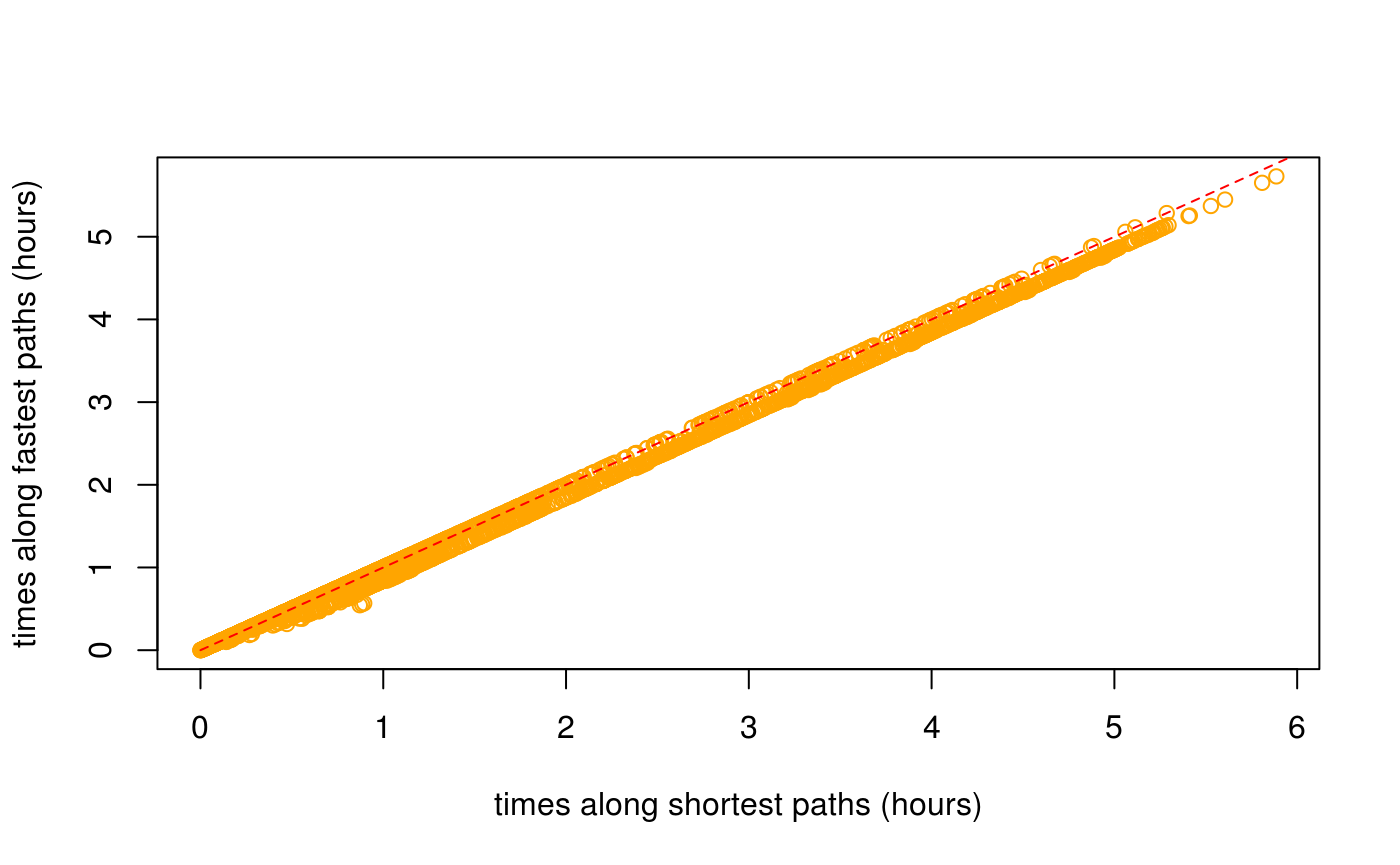
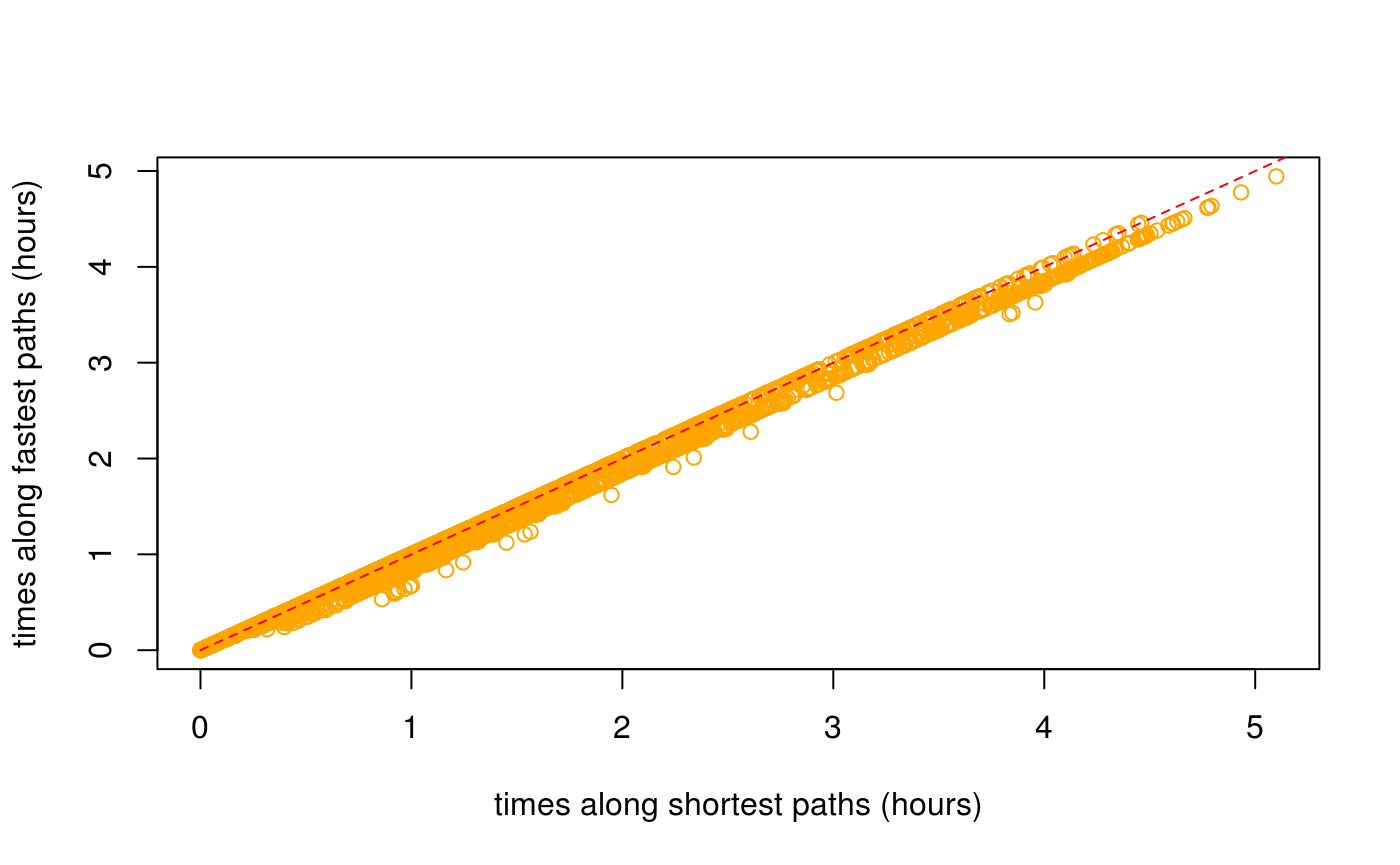
Built site for dodgr: 0.1.3.3@9c61654

diff --git a/articles/dodgr.html b/articles/dodgr.html
@@ -343,7 +343,7 @@ Figure 2: A <strong>dual</strong>-weighted, directed graph in which the weights 
 <p>The <code>dodgr</code> packages includes a function to select a random connected portion of graph including a specified number of vertices. This function is used in the <code><a href="../reference/compare_heaps.html">compare_heaps()</a></code> function described below, but is also useful for general statistical analyses of large graphs which may otherwise take too long to compute.</p>
 <div class="sourceCode" id="cb59"><pre class="sourceCode r"><code class="sourceCode r"><a class="sourceLine" id="cb59-1" data-line-number="1">graph_sub &lt;-<span class="st"> </span><span class="kw"><a href="../reference/dodgr_sample.html">dodgr_sample</a></span> (graph, <span class="dt">nverts =</span> <span class="dv">100</span>)</a>
 <a class="sourceLine" id="cb59-2" data-line-number="2"><span class="kw"><a href="https://www.rdocumentation.org/packages/base/topics/nrow">nrow</a></span> (graph_sub)</a></code></pre></div>
-<pre><code>## [1] 203</code></pre>
+<pre><code>## [1] 201</code></pre>
 <p>The random sample has around twice as many edges as vertices, in accordance with the statistics calculated above.</p>
 <div class="sourceCode" id="cb61"><pre class="sourceCode r"><code class="sourceCode r"><a class="sourceLine" id="cb61-1" data-line-number="1"><span class="kw"><a href="https://www.rdocumentation.org/packages/base/topics/nrow">nrow</a></span> (<span class="kw"><a href="../reference/dodgr_vertices.html">dodgr_vertices</a></span> (graph_sub))</a></code></pre></div>
 <pre><code>## [1] 100</code></pre>
@@ -366,7 +366,7 @@ Figure 2: A <strong>dual</strong>-weighted, directed graph in which the weights 
 <div class="sourceCode" id="cb64"><pre class="sourceCode r"><code class="sourceCode r"><a class="sourceLine" id="cb64-1" data-line-number="1">d &lt;-<span class="st"> </span><span class="kw"><a href="../reference/dodgr_dists.html">dodgr_dists</a></span> (graph, <span class="dt">from =</span> xy)</a>
 <a class="sourceLine" id="cb64-2" data-line-number="2"><span class="kw"><a href="https://www.rdocumentation.org/packages/base/topics/dim">dim</a></span> (d); <span class="kw"><a href="https://www.rdocumentation.org/packages/base/topics/range">range</a></span> (d, <span class="dt">na.rm =</span> <span class="ot">TRUE</span>)</a></code></pre></div>
 <pre><code>## [1]  100 2861</code></pre>
-<pre><code>## [1]     0.00 28624.11</code></pre>
+<pre><code>## [1]     0 27754</code></pre>
 <p>If the <code>to</code> argument is also specified, the matrix returned will have rows matching <code>from</code> and columns matching <code>to</code></p>
 <div class="sourceCode" id="cb67"><pre class="sourceCode r"><code class="sourceCode r"><a class="sourceLine" id="cb67-1" data-line-number="1">d &lt;-<span class="st"> </span><span class="kw"><a href="../reference/dodgr_dists.html">dodgr_dists</a></span> (graph, <span class="dt">from =</span> xy, <span class="dt">to =</span> xy [<span class="dv">1</span><span class="op">:</span><span class="dv">10</span>, ])</a>
 <a class="sourceLine" id="cb67-2" data-line-number="2"><span class="kw"><a href="https://www.rdocumentation.org/packages/base/topics/dim">dim</a></span> (d)</a></code></pre></div>
@@ -420,31 +420,31 @@ Figure 2: A <strong>dual</strong>-weighted, directed graph in which the weights 
 <p>The comparisons are actually made on a randomly selected sub-component of the graph containing a defined number of vertices (with a default of 1,000, or the entire graph if it contains fewer than 1,000 vertices).</p>
 <div class="sourceCode" id="cb77"><pre class="sourceCode r"><code class="sourceCode r"><a class="sourceLine" id="cb77-1" data-line-number="1"><span class="kw"><a href="../reference/compare_heaps.html">compare_heaps</a></span> (graph, <span class="dt">nverts =</span> <span class="dv">100</span>, <span class="dt">replications =</span> <span class="dv">1</span>)</a></code></pre></div>
 <pre><code>##                                                                                   test
-## 6       d &lt;- dodgr_dists(graph_contracted, from = from_id, to = to_id, heap = "BHeap")
-## 9  d &lt;- dodgr_dists(graph_contracted, from = from_id, to = to_id, heap = "TriHeapExt")
-## 11        d &lt;- dodgr_dists(graph_contracted, from = from_id, to = to_id, heap = "set")
 ## 12                  d &lt;- igraph::distances(igr, v = from_id, to = to_id, mode = "out")
-## 1                  d &lt;- dodgr_dists(graph, from = from_id, to = to_id, heap = "BHeap")
-## 2                  d &lt;- dodgr_dists(graph, from = from_id, to = to_id, heap = "FHeap")
-## 4             d &lt;- dodgr_dists(graph, from = from_id, to = to_id, heap = "TriHeapExt")
-## 5                 d &lt;- dodgr_dists(graph, from = from_id, to = to_id, heap = "Heap23")
+## 6       d &lt;- dodgr_dists(graph_contracted, from = from_id, to = to_id, heap = "BHeap")
 ## 7       d &lt;- dodgr_dists(graph_contracted, from = from_id, to = to_id, heap = "FHeap")
 ## 8     d &lt;- dodgr_dists(graph_contracted, from = from_id, to = to_id, heap = "TriHeap")
 ## 10     d &lt;- dodgr_dists(graph_contracted, from = from_id, to = to_id, heap = "Heap23")
+## 11        d &lt;- dodgr_dists(graph_contracted, from = from_id, to = to_id, heap = "set")
+## 1                  d &lt;- dodgr_dists(graph, from = from_id, to = to_id, heap = "BHeap")
+## 2                  d &lt;- dodgr_dists(graph, from = from_id, to = to_id, heap = "FHeap")
 ## 3                d &lt;- dodgr_dists(graph, from = from_id, to = to_id, heap = "TriHeap")
+## 4             d &lt;- dodgr_dists(graph, from = from_id, to = to_id, heap = "TriHeapExt")
+## 5                 d &lt;- dodgr_dists(graph, from = from_id, to = to_id, heap = "Heap23")
+## 9  d &lt;- dodgr_dists(graph_contracted, from = from_id, to = to_id, heap = "TriHeapExt")
 ##    replications elapsed relative user.self sys.self user.child sys.child
-## 6             1   0.002      1.0     0.004    0.000          0         0
-## 9             1   0.002      1.0     0.000    0.000          0         0
-## 11            1   0.002      1.0     0.000    0.000          0         0
-## 12            1   0.002      1.0     0.000    0.000          0         0
-## 1             1   0.003      1.5     0.004    0.000          0         0
-## 2             1   0.003      1.5     0.004    0.000          0         0
-## 4             1   0.003      1.5     0.004    0.000          0         0
-## 5             1   0.003      1.5     0.004    0.000          0         0
-## 7             1   0.003      1.5     0.004    0.000          0         0
-## 8             1   0.003      1.5     0.000    0.000          0         0
-## 10            1   0.003      1.5     0.004    0.000          0         0
-## 3             1   0.004      2.0     0.000    0.004          0         0</code></pre>
+## 12            1   0.001        1     0.004        0          0         0
+## 6             1   0.002        2     0.004        0          0         0
+## 7             1   0.002        2     0.004        0          0         0
+## 8             1   0.002        2     0.004        0          0         0
+## 10            1   0.002        2     0.004        0          0         0
+## 11            1   0.002        2     0.000        0          0         0
+## 1             1   0.003        3     0.004        0          0         0
+## 2             1   0.003        3     0.000        0          0         0
+## 3             1   0.003        3     0.004        0          0         0
+## 4             1   0.003        3     0.004        0          0         0
+## 5             1   0.003        3     0.000        0          0         0
+## 9             1   0.003        3     0.004        0          0         0</code></pre>
 <p>The key column of that <code>data.frame</code> is <code>relative</code>, which quantifies the relative performance of each test in relation to the best which is given a score of 1. <code>dodgr</code> using the default <code>heap = "BHeap"</code>, which is a binary heap priority queue, performs faster than <code>igraph</code> <span class="citation">(Csardi and Nepusz 2006)</span> for these graphs. Different kind of graphs will perform differently with different priority queue structures, and this function enables users to empirically discern the optimal heap for their kind of graph.</p>
 <p>Note, however, that this is not an entirely fair comparison, because <code>dodgr</code> calculates dual-weighted distances, whereas <code>igraph</code>—and indeed all other <strong>R</strong> packages—only directly calculate distances based on a single set of weights. Implementing dual-weighted routing in these cases requires explicitly re-tracing all paths and summing the second set of weights along each path. A time comparison in that case would be very strongly in favour of <code>dodgr</code>. Moreover, <code>dodgr</code> can convert graphs to contracted form through removing redundant vertices, as detailed in the following section. Doing so greatly improves performance with respect to <code>igraph</code>.</p>
 <p>For those wishing to do explicit comparisons themselves, the following code generates the <code>igraph</code> equivalent of <code><a href="../reference/dodgr_dists.html">dodgr_dists()</a></code>, although of course for single-weighted graphs only:</p>
@@ -481,10 +481,10 @@ Figure 3: <strong>(A)</strong> Vertex#2 is redundant for routing calculations fr
 <a class="sourceLine" id="cb85-5" data-line-number="5">                       d2 &lt;-<span class="st"> </span><span class="kw"><a href="../reference/dodgr_dists.html">dodgr_dists</a></span> (graph, <span class="dt">from =</span> from, <span class="dt">to =</span> to),</a>
 <a class="sourceLine" id="cb85-6" data-line-number="6">                       <span class="dt">replications =</span> <span class="dv">2</span>)</a></code></pre></div>
 <pre><code>##                                             test replications elapsed
-## 2 d2 &lt;- dodgr_dists(graph, from = from, to = to)            2   0.049
+## 2 d2 &lt;- dodgr_dists(graph, from = from, to = to)            2   0.048
 ## 1   d2 &lt;- dodgr_dists(grc, from = from, to = to)            2   0.010
 ##   relative user.self sys.self user.child sys.child
-## 2      4.9     0.072        0          0         0
+## 2      4.8     0.068        0          0         0
 ## 1      1.0     0.012        0          0         0</code></pre>
 <p>And contracting the graph has a similar effect of speeding up pairwise routing between these 100 points. All routing algorithms scale non-linearly with size, and relative improvements in efficiency will be even greater for larger graphs.</p>
 <div id="routing-on-contracted-graphs" class="section level2">
@@ -497,11 +497,11 @@ Figure 3: <strong>(A)</strong> Vertex#2 is redundant for routing calculations fr
 <pre><code>## [1] 688</code></pre>
 <div class="sourceCode" id="cb89"><pre class="sourceCode r"><code class="sourceCode r"><a class="sourceLine" id="cb89-1" data-line-number="1">verts &lt;-<span class="st"> </span><span class="kw"><a href="https://www.rdocumentation.org/packages/base/topics/sample">sample</a></span> (<span class="kw"><a href="../reference/dodgr_vertices.html">dodgr_vertices</a></span> (graph)<span class="op">$</span>id, <span class="dt">size =</span> <span class="dv">100</span>)</a>
 <a class="sourceLine" id="cb89-2" data-line-number="2"><span class="kw"><a href="https://www.rdocumentation.org/packages/utils/topics/head">head</a></span> (verts) <span class="co"># a character vector</span></a></code></pre></div>
-<pre><code>## [1] "339059757"  "1427080694" "2195425044" "1398747982" "2398957753"
-## [6] "2195425056"</code></pre>
+<pre><code>## [1] "2195424968" "2627465883" "2398957884" "2398957729" "1668645530"
+## [6] "2588155732"</code></pre>
 <div class="sourceCode" id="cb91"><pre class="sourceCode r"><code class="sourceCode r"><a class="sourceLine" id="cb91-1" data-line-number="1">grc &lt;-<span class="st"> </span><span class="kw"><a href="../reference/dodgr_contract_graph.html">dodgr_contract_graph</a></span> (graph, verts)<span class="op">$</span>graph</a>
 <a class="sourceLine" id="cb91-2" data-line-number="2"><span class="kw"><a href="https://www.rdocumentation.org/packages/base/topics/nrow">nrow</a></span> (grc)</a></code></pre></div>
-<pre><code>## [1] 868</code></pre>
+<pre><code>## [1] 852</code></pre>
 <p>Retaining the nominated vertices yields a graph with considerably more edges than the fully contracted graph excluding these vertices. The <code><a href="../reference/dodgr_dists.html">dodgr_dists()</a></code> function can be applied to the latter graph to obtain accurate distances precisely routed between these points, yet using the speed advantages of graph contraction.</p>
 </div>
 </div>
@@ -542,25 +542,87 @@ Figure 3: <strong>(A)</strong> Vertex#2 is redundant for routing calculations fr
 <pre><code>## [1] 10</code></pre>
 <p>The result (<code>dp</code>) is a list of 10 items, each of which contains 5 vectors. An example is,</p>
 <div class="sourceCode" id="cb98"><pre class="sourceCode r"><code class="sourceCode r"><a class="sourceLine" id="cb98-1" data-line-number="1">dp [[<span class="dv">1</span>]] [[<span class="dv">1</span>]]</a></code></pre></div>
-<pre><code>##  [1] "2195425054" "2195425053" "2195425041" "2195425033" "2627488725"
-##  [6] "2195425019" "2195425016" "2195425012" "2195425003" "2195424993"
-## [11] "2195424989" "2195424988" "2195424983" "2195424981" "2195424980"
-## [16] "2195424974" "2195424973" "2195424970" "2195424968" "2195424963"
-## [21] "2195424961" "2195424954" "2195424953" "2195424945" "2195424930"
-## [26] "2195424929" "2195424932" "2195424931" "2195424933" "2195424936"
-## [31] "2195424942" "2195424948" "2195424955" "2195424956" "2195424951"
-## [36] "2195424950" "2195424944" "2195424943" "2195424940"</code></pre>
+<pre><code>##   [1] "677638822"  "677638823"  "1691495723" "1691495720" "1691495717"
+##   [6] "1161117349" "1691495698" "245631502"  "1691495696" "1161117543"
+##  [11] "1691495693" "1691495680" "1691495677" "1161117452" "1691495672"
+##  [16] "1161117302" "1691495665" "1691495937" "1161117663" "1691496251"
+##  [21] "1691496243" "1161117704" "1691496247" "1691496237" "1161117404"
+##  [26] "1691496236" "1691496204" "1161117288" "1691495910" "1691495985"
+##  [31] "677638817"  "1161117652" "1161117586" "1691495982" "1161117526"
+##  [36] "1691495952" "1691495943" "1161117392" "1691495939" "1161117756"
+##  [41] "1691495934" "1161117440" "1376769146" "1161117501" "1691495929"
+##  [46] "1161117383" "1691496079" "1161117679" "677638820"  "1691496070"
+##  [51] "1161117278" "1691496072" "1691496075" "1128374463" "1161117327"
+##  [56] "2398958044" "2398958043" "2398958041" "2398958040" "677638818" 
+##  [61] "1161117434" "2398958010" "2398958005" "1128374490" "2398957968"
+##  [66] "1161117636" "2398957939" "1376768724" "677638819"  "1376768355"
+##  [71] "1128374455" "1376768842" "2398957896" "2398957895" "1128374434"
+##  [76] "1376768821" "677638770"  "1376768479" "1376769040" "2398957837"
+##  [81] "2398957826" "1128374394" "2398957816" "1376768691" "977461235" 
+##  [86] "1128374418" "1376768409" "1376768986" "245631194"  "1376768627"
+##  [91] "1128374362" "676875279"  "1357430213" "1161117548" "1128374360"
+##  [96] "1376769220" "1376768749" "1357430014" "1376768380" "676875276" 
+## [101] "1376768957" "1357430113" "1376768597" "1376768325" "1161117723"
+## [106] "1376768899" "1161117735" "1376768537" "676875308"  "1376769132"
+## [111] "1128374447" "1376768650" "1376768293" "676875274"  "1376768867"
+## [116] "1161117304" "1376768504" "1128374467" "1128374373" "1128374412"
+## [121] "1376769190" "1128374442" "676875269"  "245631169"  "1376768805"
+## [126] "2398957722" "313796425"  "2398957720" "1376769010" "2398957713"
+## [131] "1376768565" "2398957701" "2398957696" "1128374495" "313796426" 
+## [136] "1128374399" "313796427"  "313796428"  "2398957603" "313796429" 
+## [141] "1427594112" "1376769158" "313796430"  "313796431"  "2398957567"
+## [146] "2398957563" "3338186986" "313796432"  "2398957555" "2398957554"
+## [151] "1376768773" "313796433"  "2419196948" "2398957539" "676875267" 
+## [156] "2398957521" "2398957526" "2398957532" "2398957537" "676635860" 
+## [161] "2398957542" "2398957543" "2398957544" "2398957546" "338905245" 
+## [166] "2398957549" "2398957557" "2398957561" "338905227"  "2398957564"
+## [171] "338905221"  "2398957568" "2398957570" "2398957571" "1427594104"
+## [176] "2398957576" "338905220"  "2398957584" "1376769086" "1376768510"
+## [181] "2398957588" "2398957589" "338905219"  "1376768779" "1376769164"
+## [186] "338905128"  "1427115955" "339574628"  "2398957619" "339574629" 
+## [191] "339574630"  "2398957639" "2398957654" "1148814809" "2717241324"
+## [196] "339574631"  "2398957686" "3818714155" "339574819"  "339574820" 
+## [201] "3818714154" "1668645470" "1668645472" "339574823"  "339574824" 
+## [206] "339574825"  "339574826"  "339574827"  "1560930408" "1560930420"
+## [211] "339574828"  "339574829"  "1376768626" "1376768985" "1376768324"
+## [216] "1376768690" "1376769039" "1376768478" "1560930407" "1376768586"
+## [221] "1376768946" "1376768369" "1376768738" "2717241312" "2717241323"
+## [226] "2717241306" "2717241321" "2717241309" "2717241332" "2717241339"
+## [231] "2717241317" "2717241331" "2717241300" "2717241302" "1376768559"
+## [236] "1376768918" "1376769209" "1376768614" "1376768975" "1376768398"
+## [241] "1376768862" "1376768464" "1376768828" "1376769110" "3697937607"
+## [246] "3697937608" "3697937609" "3697937616" "3697937612" "3697937611"
+## [251] "3697937613" "3697937614" "3697937615" "3697937610" "3697937571"
+## [256] "3697937573" "3697937588" "3697937601" "3697937589" "3697937585"
+## [261] "3697937604" "3697937579" "3697937572" "3697937603" "3697937598"
+## [266] "3697937602" "3697937595" "3697937586" "3697937584" "3697937606"
+## [271] "3697937596" "3697937583" "3697937597" "3697937574" "3697937582"
+## [276] "3697937578" "3697937575" "3697937605" "3697937599" "3697937591"
+## [281] "4337842057" "4337842060" "4337842061" "4337842067" "4337842073"
+## [286] "4337842068" "4337842064" "4337842069" "4337842075" "4337842079"
+## [291] "4337842189" "4337842192" "3697937587" "4337842203" "4337842205"
+## [296] "4337842204" "4337842200" "4337842201" "4337842086" "4337842082"
+## [301] "4337842081" "4337842084" "4337842190" "4337842197" "4337842196"
+## [306] "4337842078" "4337842071" "4337842065" "4337842053" "4337842072"
+## [311] "4337842070" "4337842080" "4337842076" "4337842195" "4337842198"
+## [316] "4337842199" "4337842083" "4337842063" "4337842058" "4337842055"
+## [321] "4337842056" "4337842077" "4337842087" "4337842194" "4337842193"
+## [326] "4337842085" "4337842074" "4337842066" "4337842059" "4337842054"
+## [331] "4337842052" "4337842051" "4337842062" "4337842088" "4337842202"
+## [336] "4337842206" "977472988"  "977473142"  "1148815227" "2627465893"
+## [341] "2627465891" "2627465887" "2627465884" "339932428"  "339932440" 
+## [346] "339932425"  "571423834"  "571423835"</code></pre>
 <p>For spatial graphs, the coordinates of these paths can be obtained by extracting the vertices with <code><a href="../reference/dodgr_vertices.html">dodgr_vertices()</a></code> and matching the vertex IDs:</p>
 <div class="sourceCode" id="cb100"><pre class="sourceCode r"><code class="sourceCode r"><a class="sourceLine" id="cb100-1" data-line-number="1">verts &lt;-<span class="st"> </span><span class="kw"><a href="../reference/dodgr_vertices.html">dodgr_vertices</a></span> (graph)</a>
 <a class="sourceLine" id="cb100-2" data-line-number="2">path1 &lt;-<span class="st"> </span>verts [<span class="kw"><a href="https://www.rdocumentation.org/packages/base/topics/match">match</a></span> (dp [[<span class="dv">1</span>]] [[<span class="dv">1</span>]], verts<span class="op">$</span>id), ]</a>
 <a class="sourceLine" id="cb100-3" data-line-number="3"><span class="kw"><a href="https://www.rdocumentation.org/packages/utils/topics/head">head</a></span> (path1)</a></code></pre></div>
-<pre><code>##              id        x        y component    n
-## 3344 2195425054 76.46106 15.35501         2 1677
-## 3342 2195425053 76.46093 15.35499         2 1676
-## 3340 2195425041 76.46087 15.35481         2 1675
-## 3338 2195425033 76.46118 15.35412         2 1674
-## 3336 2627488725 76.46131 15.35385         2 1673
-## 3334 2195425019 76.46148 15.35369         2 1672</code></pre>
+<pre><code>##              id        x        y component   n
+## 1006  677638822 76.54509 15.37046         1 514
+## 1004  677638823 76.54466 15.36981         1 513
+## 1002 1691495723 76.54421 15.36935         1 512
+## 1000 1691495720 76.54383 15.36893         1 511
+## 998  1691495717 76.54265 15.36749         1 510
+## 996  1161117349 76.54241 15.36723         1 509</code></pre>
 <p>Paths calculated on contracted graphs will of course have fewer vertices than those calculated on full graphs.</p>
 </div>
 <div id="aggregated-flows" class="section level1">
@@ -604,7 +666,7 @@ Figure 3: <strong>(A)</strong> Vertex#2 is redundant for routing calculations fr
 <p>Most flows are zero because they have only been calculated between very few points in the graph.</p>
 <div class="sourceCode" id="cb105"><pre class="sourceCode r"><code class="sourceCode r"><a class="sourceLine" id="cb105-1" data-line-number="1"><span class="kw"><a href="https://www.rdocumentation.org/packages/base/topics/summary">summary</a></span> (graph_f<span class="op">$</span>flow)</a></code></pre></div>
 <pre><code>##    Min. 1st Qu.  Median    Mean 3rd Qu.    Max. 
-##   0.000   0.000   0.000   3.604   0.000  59.217</code></pre>
+##   0.000   0.000   0.000   7.160   4.809  85.095</code></pre>
 </div>
 <div id="flow-dispersal" class="section level2">
 <h2 class="hasAnchor">
@@ -614,7 +676,7 @@ Figure 3: <strong>(A)</strong> Vertex#2 is redundant for routing calculations fr
 <a class="sourceLine" id="cb107-2" data-line-number="2">graph_f &lt;-<span class="st"> </span><span class="kw"><a href="../reference/dodgr_flows_disperse.html">dodgr_flows_disperse</a></span> (graph, <span class="dt">from =</span> from, <span class="dt">dens =</span> dens)</a>
 <a class="sourceLine" id="cb107-3" data-line-number="3"><span class="kw"><a href="https://www.rdocumentation.org/packages/base/topics/summary">summary</a></span> (graph_f<span class="op">$</span>flow)</a></code></pre></div>
 <pre><code>##      Min.   1st Qu.    Median      Mean   3rd Qu.      Max. 
-## 0.000e+00 0.000e+00 0.000e+00 2.237e-05 0.000e+00 7.490e-02</code></pre>
+## 0.000e+00 0.000e+00 0.000e+00 3.961e-06 0.000e+00 1.312e-02</code></pre>
 </div>
 <div id="merging-directed-flows" class="section level2">
 <h2 class="hasAnchor">
@@ -624,7 +686,7 @@ Figure 3: <strong>(A)</strong> Vertex#2 is redundant for routing calculations fr
 <p>Resultant graphs produced by <code><a href="../reference/merge_directed_flows.html">merge_directed_flows()</a></code> only include those edges having non-zero flows, and so:</p>
 <div class="sourceCode" id="cb110"><pre class="sourceCode r"><code class="sourceCode r"><a class="sourceLine" id="cb110-1" data-line-number="1"><span class="kw"><a href="https://www.rdocumentation.org/packages/base/topics/nrow">nrow</a></span> (graph_f); <span class="kw"><a href="https://www.rdocumentation.org/packages/base/topics/nrow">nrow</a></span> (graph_undir) <span class="co"># the latter is much smaller</span></a></code></pre></div>
 <pre><code>## [1] 5845</code></pre>
-<pre><code>## [1] 1710</code></pre>
+<pre><code>## [1] 1428</code></pre>
 <p>The resultant graph can readily be merged with the original graph to regain the original data on vertex coordinates through</p>
 <div class="sourceCode" id="cb113"><pre class="sourceCode r"><code class="sourceCode r"><a class="sourceLine" id="cb113-1" data-line-number="1">graph &lt;-<span class="st"> </span>graph [graph_undir<span class="op">$</span>edge_id, ]</a>
 <a class="sourceLine" id="cb113-2" data-line-number="2">graph<span class="op">$</span>flow &lt;-<span class="st"> </span>graph_undir<span class="op">$</span>flow</a></code></pre></div>

diff --git a/articles/times.html b/articles/times.html
@@ -233,11 +233,11 @@ Figure 1: Graph modification to account for turn angles, which introduces the ad
 <p><img src="times_files/figure-html/shortest-vs-fastest-1.png" width="700"></p>
 <p>The average distance between the two (in metres) is:</p>
 <div class="sourceCode" id="cb11"><pre class="sourceCode r"><code class="sourceCode r"><a class="sourceLine" id="cb11-1" data-line-number="1"><span class="kw"><a href="https://www.rdocumentation.org/packages/base/topics/mean">mean</a></span> (<span class="kw"><a href="https://www.rdocumentation.org/packages/base/topics/MathFun">abs</a></span> (d_time <span class="op">-</span><span class="st"> </span>d_dist), <span class="dt">na.rm =</span> <span class="ot">TRUE</span>)</a></code></pre></div>
-<pre><code>## [1] 37.45463</code></pre>
+<pre><code>## [1] 28.98991</code></pre>
 <p>The plot reveals that shortest distances are indeed somewhat shorter than distances along fastest paths, but also that some fastest paths are actually shorter than shortest paths:</p>
 <div class="sourceCode" id="cb13"><pre class="sourceCode r"><code class="sourceCode r"><a class="sourceLine" id="cb13-1" data-line-number="1">index &lt;-<span class="st"> </span><span class="kw"><a href="https://www.rdocumentation.org/packages/base/topics/which">which</a></span> (<span class="op">!</span><span class="kw"><a href="https://www.rdocumentation.org/packages/base/topics/NA">is.na</a></span> (d_time) <span class="op">&amp;</span><span class="st"> </span><span class="op">!</span><span class="kw"><a href="https://www.rdocumentation.org/packages/base/topics/NA">is.na</a></span> (d_dist))</a>
 <a class="sourceLine" id="cb13-2" data-line-number="2"><span class="kw"><a href="https://www.rdocumentation.org/packages/base/topics/length">length</a></span> (<span class="kw"><a href="https://www.rdocumentation.org/packages/base/topics/which">which</a></span> (d_time [index] <span class="op">&lt;</span><span class="st"> </span>d_dist [index])) <span class="op">/</span><span class="st"> </span><span class="kw"><a href="https://www.rdocumentation.org/packages/base/topics/length">length</a></span> (index)</a></code></pre></div>
-<pre><code>## [1] 0.008969466</code></pre>
+<pre><code>## [1] 0.01232877</code></pre>
 <p>While <code>dodgr</code> and indeed all routing engines attempt to maximally reconcile differences between fastest and shortest routes, there nevertheless remain important discrepancies. Foremost among these, and the primary reason why some fastest routes may in fact be shorter than shortest routes, is that fastest routes allocate preferences for different kinds of way based both on the <code>value</code> column in the <code>weighting_profiles$weighting_profiles</code> table illustrated above, and on the actual maximum speed of a given edge, which itself may be a combination of maximum speeds as specified in OSM itself, maximum speeds from the <code>weighting_profiles$weighting_profiles</code> table, or values specific to a given surface. The result is that some unique combination of maximum speeds along a network may lead to <em>fastest</em> routes being preferentially directed along a path that is actually shorter than the direct shortest path which is calculated independent of maximum speed values.</p>
 <p>Such discrepancies are important in understanding differences in routes <em>times</em> calculated along shortest versus fastest paths. These times can be calculated (in seconds) with the <a href="https://atfutures.github.io/dodgr/reference/dodgr_times.html"><code><a href="../reference/dodgr_times.html">dodgr_times()</a></code></a> function:</p>
 <div class="sourceCode" id="cb15"><pre class="sourceCode r"><code class="sourceCode r"><a class="sourceLine" id="cb15-1" data-line-number="1">t_dist &lt;-<span class="st"> </span><span class="kw"><a href="../reference/dodgr_times.html">dodgr_times</a></span> (graph, <span class="dt">from =</span> from, <span class="dt">to =</span> to, <span class="dt">shortest =</span> <span class="ot">TRUE</span>) <span class="co"># default</span></a>
@@ -248,11 +248,11 @@ Figure 1: Graph modification to account for turn angles, which introduces the ad
 <a class="sourceLine" id="cb15-6" data-line-number="6"><span class="kw"><a href="https://www.rdocumentation.org/packages/graphics/topics/lines">lines</a></span> (<span class="dv">0</span><span class="op">:</span><span class="dv">100</span>, <span class="dv">0</span><span class="op">:</span><span class="dv">100</span>, <span class="dt">col =</span> <span class="st">"red"</span>, <span class="dt">lty =</span> <span class="dv">2</span>)</a></code></pre></div>
 <p><img src="times_files/figure-html/shortest-vs-fastest-times-1.png" width="700"></p>
 <div class="sourceCode" id="cb16"><pre class="sourceCode r"><code class="sourceCode r"><a class="sourceLine" id="cb16-1" data-line-number="1"><span class="kw"><a href="https://www.rdocumentation.org/packages/base/topics/mean">mean</a></span> (<span class="kw"><a href="https://www.rdocumentation.org/packages/base/topics/MathFun">abs</a></span> (t_time <span class="op">-</span><span class="st"> </span>t_dist), <span class="dt">na.rm =</span> <span class="ot">TRUE</span>)</a></code></pre></div>
-<pre><code>## [1] 135.044</code></pre>
+<pre><code>## [1] 121.4579</code></pre>
 <p>As above, times along fastest paths are generally less than times along shortest paths, although there are again a few exceptions:</p>
 <div class="sourceCode" id="cb18"><pre class="sourceCode r"><code class="sourceCode r"><a class="sourceLine" id="cb18-1" data-line-number="1">index &lt;-<span class="st"> </span><span class="kw"><a href="https://www.rdocumentation.org/packages/base/topics/which">which</a></span> (<span class="op">!</span><span class="kw"><a href="https://www.rdocumentation.org/packages/base/topics/NA">is.na</a></span> (t_time) <span class="op">&amp;</span><span class="st"> </span><span class="op">!</span><span class="kw"><a href="https://www.rdocumentation.org/packages/base/topics/NA">is.na</a></span> (t_dist))</a>
 <a class="sourceLine" id="cb18-2" data-line-number="2"><span class="kw"><a href="https://www.rdocumentation.org/packages/base/topics/length">length</a></span> (<span class="kw"><a href="https://www.rdocumentation.org/packages/base/topics/which">which</a></span> (t_dist [index] <span class="op">&lt;</span><span class="st"> </span>t_time [index])) <span class="op">/</span><span class="st"> </span><span class="kw"><a href="https://www.rdocumentation.org/packages/base/topics/length">length</a></span> (index)</a></code></pre></div>
-<pre><code>## [1] 0.01679389</code></pre>
+<pre><code>## [1] 0.005479452</code></pre>
 <p>These results demonstrate how the combination of the <a href="https://atfutures.github.io/dodgr/reference/dodgr_distances.html"><code><a href="../reference/dodgr_distances.html">dodgr_distances()</a></code></a> and <a href="https://atfutures.github.io/dodgr/reference/dodgr_times.html"><code><a href="../reference/dodgr_times.html">dodgr_times()</a></code></a> functions enable calculation of both distances and times along both shortest and fastest paths.</p>
 <div id="time-based-paths-and-flow-aggregation" class="section level2">
 <h2 class="hasAnchor">

diff --git a/reference/compare_heaps.html b/reference/compare_heaps.html
@@ -158,27 +158,27 @@ fair comparisons, run only once or re-start the current R session.</p>
 #&gt; 11        d &lt;- dodgr_dists(graph_contracted, from = from_id, to = to_id, heap = "set")
 #&gt; 7       d &lt;- dodgr_dists(graph_contracted, from = from_id, to = to_id, heap = "FHeap")
 #&gt; 8     d &lt;- dodgr_dists(graph_contracted, from = from_id, to = to_id, heap = "TriHeap")
-#&gt; 9  d &lt;- dodgr_dists(graph_contracted, from = from_id, to = to_id, heap = "TriHeapExt")
 #&gt; 10     d &lt;- dodgr_dists(graph_contracted, from = from_id, to = to_id, heap = "Heap23")
+#&gt; 9  d &lt;- dodgr_dists(graph_contracted, from = from_id, to = to_id, heap = "TriHeapExt")
 #&gt; 12                  d &lt;- igraph::distances(igr, v = from_id, to = to_id, mode = "out")
 #&gt; 1                  d &lt;- dodgr_dists(graph, from = from_id, to = to_id, heap = "BHeap")
 #&gt; 2                  d &lt;- dodgr_dists(graph, from = from_id, to = to_id, heap = "FHeap")
-#&gt; 5                 d &lt;- dodgr_dists(graph, from = from_id, to = to_id, heap = "Heap23")
 #&gt; 3                d &lt;- dodgr_dists(graph, from = from_id, to = to_id, heap = "TriHeap")
+#&gt; 5                 d &lt;- dodgr_dists(graph, from = from_id, to = to_id, heap = "Heap23")
 #&gt; 4             d &lt;- dodgr_dists(graph, from = from_id, to = to_id, heap = "TriHeapExt")
 #&gt;    replications elapsed relative user.self sys.self user.child sys.child
-#&gt; 6             1   0.009    1.000     0.016        0          0         0
-#&gt; 11            1   0.010    1.111     0.016        0          0         0
-#&gt; 7             1   0.012    1.333     0.020        0          0         0
-#&gt; 8             1   0.013    1.444     0.020        0          0         0
-#&gt; 9             1   0.013    1.444     0.012        0          0         0
-#&gt; 10            1   0.013    1.444     0.020        0          0         0
-#&gt; 12            1   0.023    2.556     0.024        0          0         0
-#&gt; 1             1   0.035    3.889     0.064        0          0         0
-#&gt; 2             1   0.048    5.333     0.088        0          0         0
-#&gt; 5             1   0.050    5.556     0.092        0          0         0
-#&gt; 3             1   0.051    5.667     0.092        0          0         0
-#&gt; 4             1   0.056    6.222     0.056        0          0         0</div></pre>
+#&gt; 6             1   0.008    1.000     0.016    0.000          0         0
+#&gt; 11            1   0.009    1.125     0.012    0.000          0         0
+#&gt; 7             1   0.011    1.375     0.016    0.000          0         0
+#&gt; 8             1   0.011    1.375     0.016    0.000          0         0
+#&gt; 10            1   0.011    1.375     0.016    0.000          0         0
+#&gt; 9             1   0.013    1.625     0.012    0.000          0         0
+#&gt; 12            1   0.023    2.875     0.020    0.000          0         0
+#&gt; 1             1   0.038    4.750     0.052    0.004          0         0
+#&gt; 2             1   0.047    5.875     0.080    0.004          0         0
+#&gt; 3             1   0.048    6.000     0.088    0.000          0         0
+#&gt; 5             1   0.048    6.000     0.084    0.000          0         0
+#&gt; 4             1   0.054    6.750     0.052    0.000          0         0</div></pre>
   </div>
   <div class="col-md-3 hidden-xs hidden-sm" id="sidebar">
     <h2>Contents</h2>

diff --git a/reference/dodgr_sample.html b/reference/dodgr_sample.html
@@ -141,7 +141,7 @@ the requested <code>nverts</code>.</p>
     <h2 class="hasAnchor" id="examples"><a class="anchor" href="#examples"></a>Examples</h2>
     <pre class="examples"><div class='input'><span class='no'>graph</span> <span class='kw'>&lt;-</span> <span class='fu'><a href='weight_streetnet.html'>weight_streetnet</a></span> (<span class='no'>hampi</span>)
 <span class='fu'><a href='https://www.rdocumentation.org/packages/base/topics/nrow'>nrow</a></span> (<span class='no'>graph</span>) <span class='co'># 5,742</span></div><div class='output co'>#&gt; [1] 5845</div><div class='input'><span class='no'>graph</span> <span class='kw'>&lt;-</span> <span class='fu'>dodgr_sample</span> (<span class='no'>graph</span>, <span class='kw'>nverts</span> <span class='kw'>=</span> <span class='fl'>200</span>)
-<span class='fu'><a href='https://www.rdocumentation.org/packages/base/topics/nrow'>nrow</a></span> (<span class='no'>graph</span>) <span class='co'># generally around 400 edges</span></div><div class='output co'>#&gt; [1] 403</div><div class='input'><span class='fu'><a href='https://www.rdocumentation.org/packages/base/topics/nrow'>nrow</a></span> (<span class='fu'><a href='dodgr_vertices.html'>dodgr_vertices</a></span> (<span class='no'>graph</span>)) <span class='co'># 200</span></div><div class='output co'>#&gt; [1] 200</div></pre>
+<span class='fu'><a href='https://www.rdocumentation.org/packages/base/topics/nrow'>nrow</a></span> (<span class='no'>graph</span>) <span class='co'># generally around 400 edges</span></div><div class='output co'>#&gt; [1] 397</div><div class='input'><span class='fu'><a href='https://www.rdocumentation.org/packages/base/topics/nrow'>nrow</a></span> (<span class='fu'><a href='dodgr_vertices.html'>dodgr_vertices</a></span> (<span class='no'>graph</span>)) <span class='co'># 200</span></div><div class='output co'>#&gt; [1] 200</div></pre>
   </div>
   <div class="col-md-3 hidden-xs hidden-sm" id="sidebar">
     <h2>Contents</h2>

diff --git a/index.html b/index.html
@@ -513,7 +513,7 @@
 <td align="right">1</td>
 <td align="right">95.358362</td>
 <td align="right">105.953735</td>
-<td align="right">16.83926</td>
+<td align="right">48.50645</td>
 </tr>
 <tr class="even">
 <td align="right">1</td>
@@ -531,7 +531,7 @@
 <td align="right">1</td>
 <td align="right">95.358362</td>
 <td align="right">105.953735</td>
-<td align="right">23.44418</td>
+<td align="right">65.00243</td>
 </tr>
 <tr class="odd">
 <td align="right">1</td>
@@ -549,7 +549,7 @@
 <td align="right">1</td>
 <td align="right">6.399843</td>
 <td align="right">7.110936</td>
-<td align="right">16.83926</td>
+<td align="right">48.50645</td>
 </tr>
 <tr class="even">
 <td align="right">1</td>
@@ -567,7 +567,7 @@
 <td align="right">1</td>
 <td align="right">6.399843</td>
 <td align="right">7.110936</td>
-<td align="right">23.44418</td>
+<td align="right">65.00243</td>
 </tr>
 <tr class="odd">
 <td align="right">1</td>
@@ -585,7 +585,7 @@
 <td align="right">1</td>
 <td align="right">6.715106</td>
 <td align="right">7.461229</td>
-<td align="right">16.83926</td>
+<td align="right">48.50645</td>
 </tr>
 <tr class="even">
 <td align="right">1</td>
@@ -603,7 +603,7 @@
 <td align="right">1</td>
 <td align="right">6.715106</td>
 <td align="right">7.461229</td>
-<td align="right">23.44418</td>
+<td align="right">65.00243</td>
 </tr>
 </tbody>
 </table>
